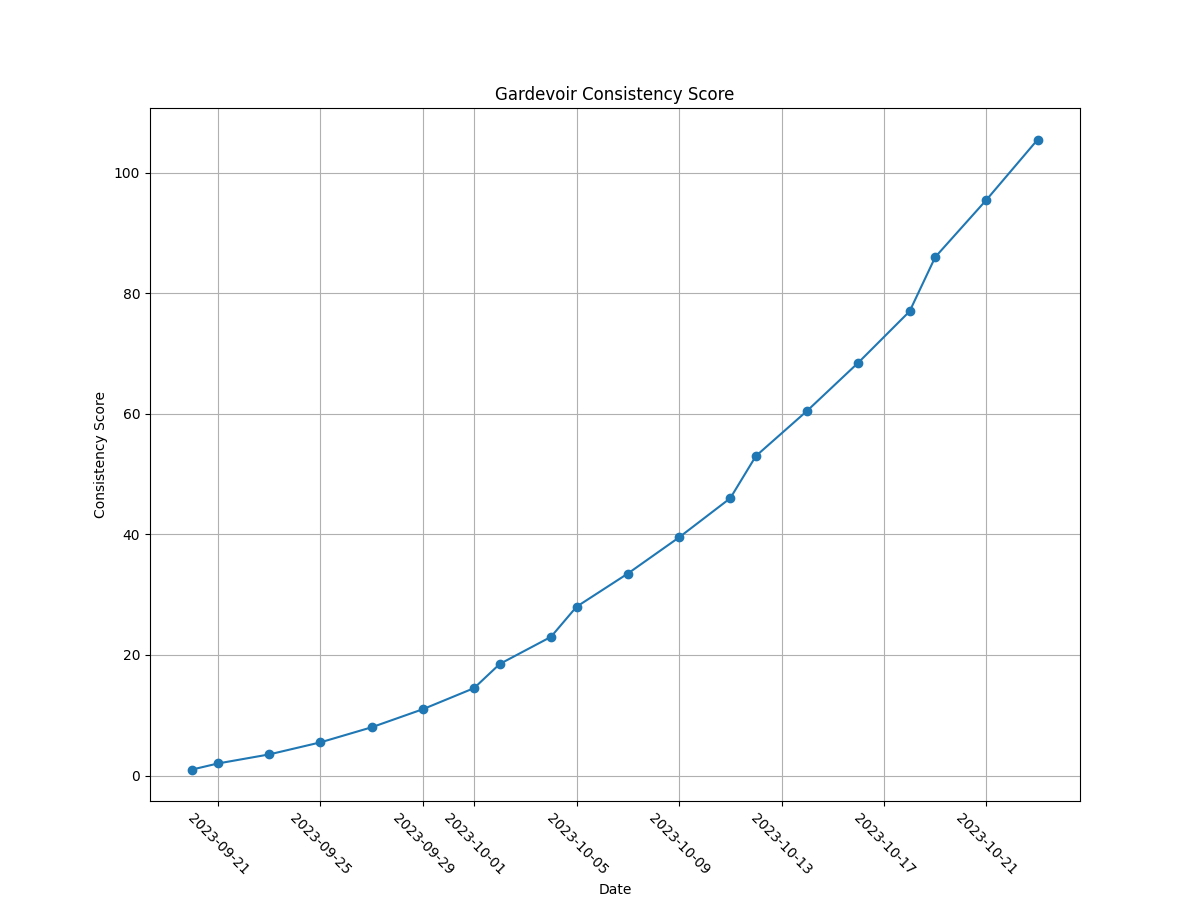
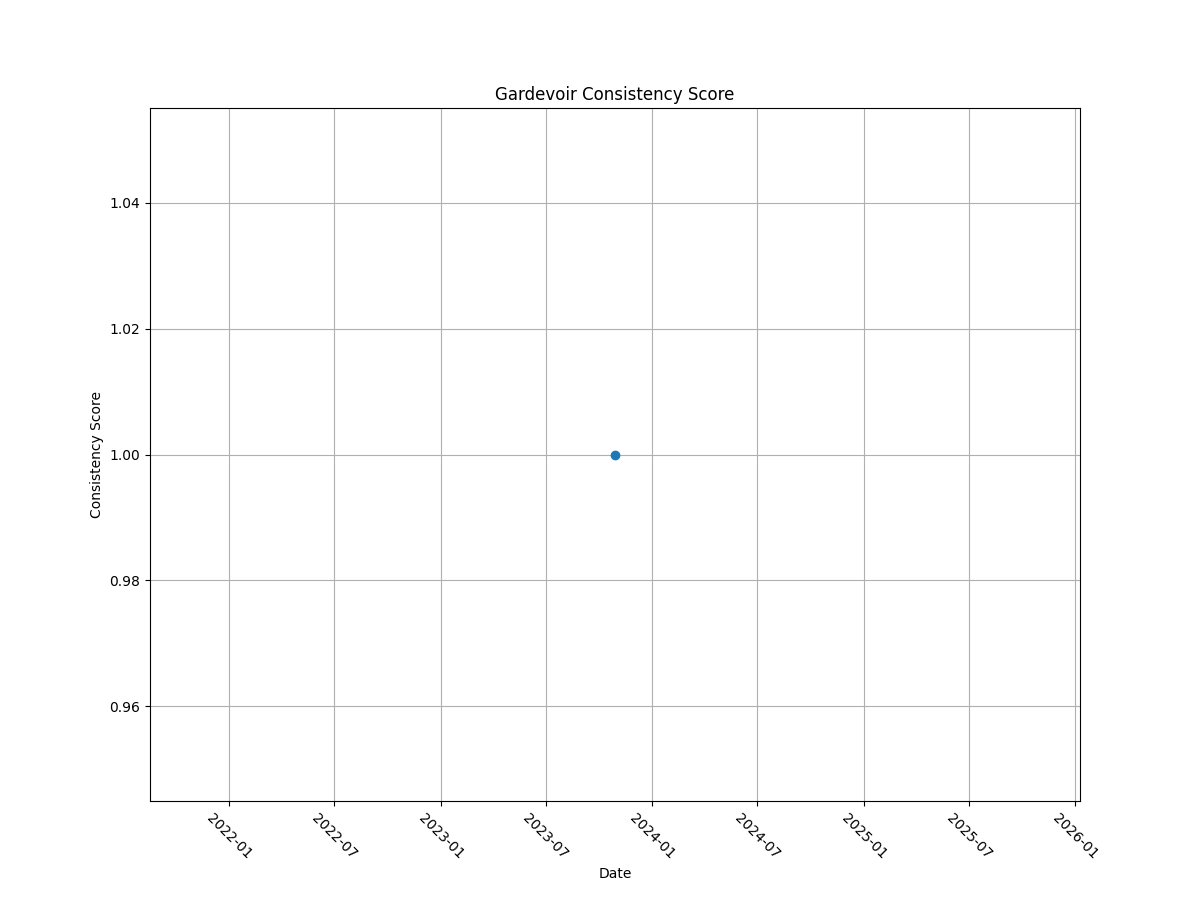
Add consistency pdfs for gardevoir and rhodon

diff --git a/earnings/data_gardevoir.py b/earnings/data_gardevoir.py
@@ -1,8 +1,7 @@
 import util
 
 GARDEVOIR_DATA = [
-    {"date": "2023-10-21", "gains": 3.01, "time_minutes": 30, "name": "Gardevoir"},
-    {"date": "2023-10-23", "gains": 2.80, "time_minutes": 30, "name": "Gardevoir"},
+    {"date": "2023-10-29", "gains": 3.01, "time_minutes": 60, "name": "Gardevoir"},
 ]
 
 GARDEVOIR_CONSISTENCY_TUPLES = [(datum['time_minutes'], util.to_date(datum['date'])) for datum in GARDEVOIR_DATA]

diff --git a/earnings/data_rhodon.py b/earnings/data_rhodon.py
@@ -1,8 +1,7 @@
 import util
 
 RHODON_DATA = [
-    {"date": "2023-10-21", "gains": 3.01, "time_minutes": 30, "name": "Rhodon"},
-    {"date": "2023-10-23", "gains": 2.80, "time_minutes": 30, "name": "Rhodon"},
+    {"date": "2023-10-29", "gains": 3.01, "time_minutes": 60, "name": "Rhodon"},
 ]
 
 RHODON_CONSISTENCY_TUPLES = [(datum['time_minutes'], util.to_date(datum['date'])) for datum in RHODON_DATA]
